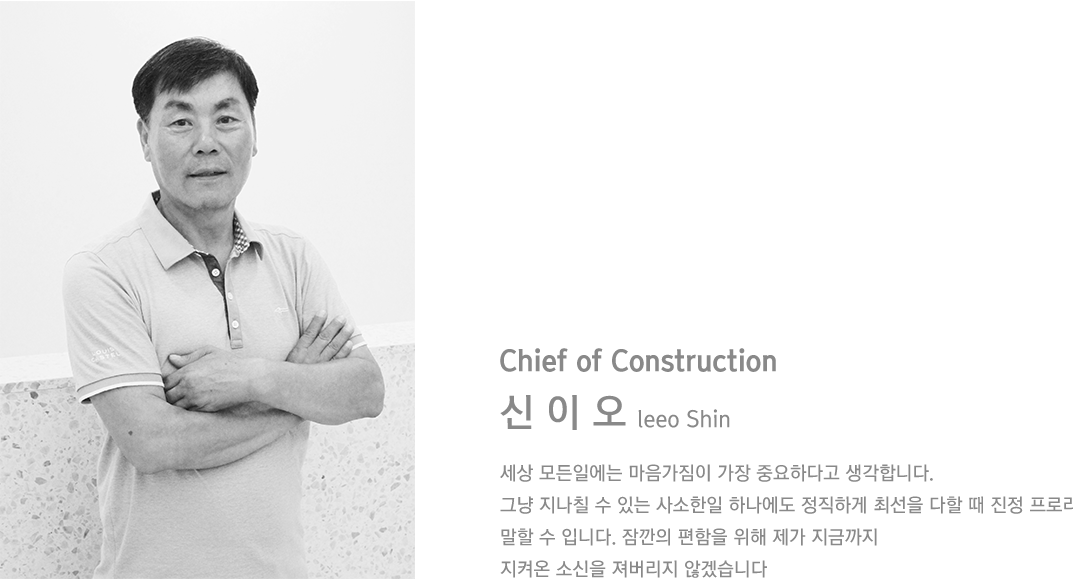
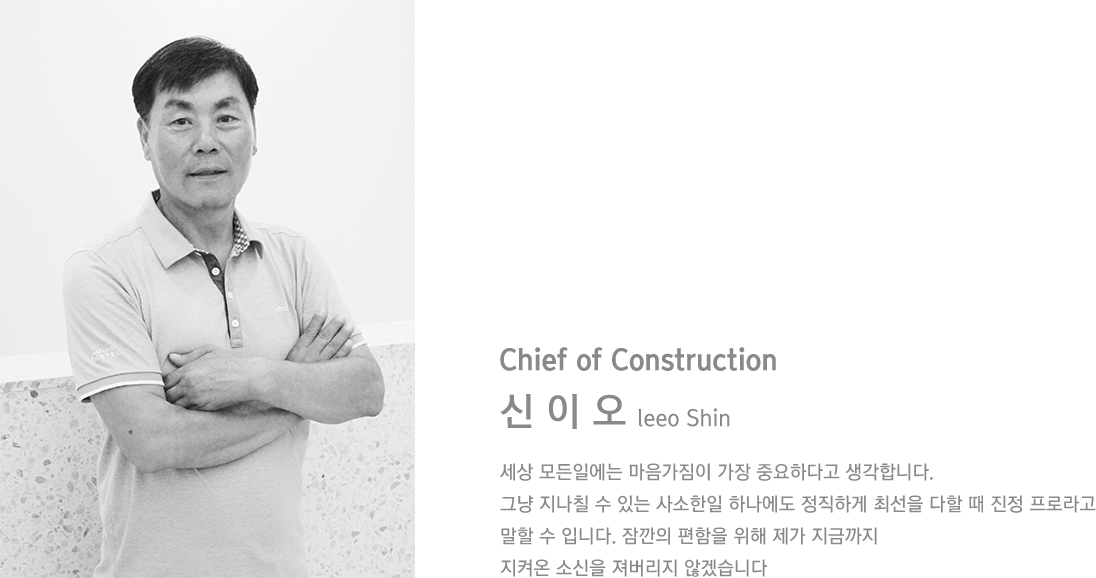
Fix some design

diff --git a/app/assets/stylesheets/bootstrap.min.css b/app/assets/stylesheets/bootstrap.min.css
@@ -4,7 +4,7 @@
  * Licensed under MIT (https://github.com/twbs/bootstrap/blob/master/LICENSE)
  *//*! normalize.css v3.0.2 | MIT License | git.io/normalize */
  
- @import url(http://fonts.googleapis.com/earlyaccess/nanumgothic.css);
+@import url(http://fonts.googleapis.com/earlyaccess/nanumgothic.css);
  
  html {
     font-family: "Nanum Gothic", sans-serif;
@@ -107,7 +107,7 @@ code,
 kbd,
 pre,
 samp {
-    font-family: monospace,monospace;
+    font-family: "Nanum Gothic", sans-serif;
     font-size: 1em;
 }
 button,
@@ -265,7 +265,7 @@ th {
     }
 }
 @font-face {
-    font-family: 'Glyphicons Halflings';
+    font-family: "Nanum Gothic", sans-serif;
     src: url("../fonts/glyphicons-halflings-regular.eot");
     src: url("../fonts/glyphicons-halflings-regular.eot?#iefix") format('embedded-opentype'),url(../fonts/glyphicons-halflings-regular.woff2) format('woff2'),url(../fonts/glyphicons-halflings-regular.woff) format('woff'),url(../fonts/glyphicons-halflings-regular.ttf) format('truetype'),url(../fonts/glyphicons-halflings-regular.svg#glyphicons_halflingsregular) format('svg');
 }
@@ -273,7 +273,7 @@ th {
     position: relative;
     top: 1px;
     display: inline-block;
-    font-family: 'Glyphicons Halflings';
+    font-family: "Nanum Gothic", sans-serif;
     font-style: normal;
     font-weight: 400;
     line-height: 1;
@@ -1083,7 +1083,7 @@ html {
     -webkit-tap-highlight-color: rgba(0,0,0,0);
 }
 body {
-    font-family: "Helvetica Neue",Helvetica,Arial,sans-serif;
+    font-family: "Nanum Gothic", sans-serif;
     font-size: 14px;
     line-height: 1.42857143;
     color: #333;
@@ -1093,7 +1093,7 @@ button,
 input,
 select,
 textarea {
-    font-family: inherit;
+    font-family: "Nanum Gothic", sans-serif;
     font-size: inherit;
     line-height: inherit;
 }
@@ -1185,7 +1185,7 @@ h3,
 h4,
 h5,
 h6 {
-    font-family: inherit;
+    font-family: "Nanum Gothic", sans-serif;
     font-weight: 500;
     line-height: 1.1;
     color: inherit;
@@ -1523,7 +1523,7 @@ code,
 kbd,
 pre,
 samp {
-    font-family: Menlo,Monaco,Consolas,"Courier New",monospace;
+    font-family: "Nanum Gothic", sans-serif;
 }
 code {
     padding: 2px 4px;
@@ -5930,7 +5930,7 @@ button.close {
     position: absolute;
     z-index: 1070;
     display: block;
-    font-family: "Helvetica Neue",Helvetica,Arial,sans-serif;
+    font-family: "Nanum Gothic", sans-serif;
     font-size: 12px;
     font-weight: 400;
     line-height: 1.4;
@@ -6037,7 +6037,7 @@ button.close {
     display: none;
     max-width: 276px;
     padding: 1px;
-    font-family: "Helvetica Neue",Helvetica,Arial,sans-serif;
+    font-family: "Nanum Gothic", sans-serif;
     font-size: 14px;
     font-weight: 400;
     line-height: 1.42857143;
@@ -6293,7 +6293,7 @@ button.close {
     width: 20px;
     height: 20px;
     margin-top: -10px;
-    font-family: serif;
+    font-family: "Nanum Gothic", sans-serif;
     line-height: 1;
 }
 .carousel-control .icon-prev:before {

diff --git a/app/assets/stylesheets/style.css b/app/assets/stylesheets/style.css
@@ -32,9 +32,8 @@
 /* 1. IMPORT SECTION */
 
 	@import url("http://fonts.googleapis.com/css?family=Raleway:200,300,600,700&subset=latin,latin-ext");
-
-
-
+  @import url(http://fonts.googleapis.com/earlyaccess/nanumgothic.css);
+  
 
 /* 2. BASIC STYLES */
 
@@ -43,7 +42,7 @@
 	}
 
 	body {
-		font-family: "Raleway", Helvetica, Arial, sans-serif;
+		font-family: "Nanum Gothic", sans-serif;
 		font-size: 14px;
 		font-weight: 200;
 		line-height: 1.7857;
@@ -86,7 +85,7 @@
 	}
 
 	h1, h2, h3, h4, h5, h6{
-		font-family: 'Raleway', sans-serif;
+		font-family: "Nanum Gothic", sans-serif;
 		font-weight: 700;
 		text-transform: uppercase;
 	}
@@ -358,7 +357,7 @@
 		line-height:27px;
 		letter-spacing:2px;
 		font-weight:100;
-		font-family:Helvetica;
+		font-family: "Nanum Gothic", sans-serif;
 	}
 
 	.carousel-caption h2 {
@@ -968,7 +967,7 @@
 
 	.contactleekang
 	{
-		font-family: "Raleway", Helvetica, Arial, sans-serif;
+		font-family: "Nanum Gothic", sans-serif;
 		font-size: 32px;
 		font-weight: 200;
 		line-height: 1.7857;

diff --git a/app/assets/stylesheets/magnific-popup.css b/app/assets/stylesheets/magnific-popup.css
@@ -1,3 +1,5 @@
+@import url(http://fonts.googleapis.com/earlyaccess/nanumgothic.css);
+
 /* Magnific Popup CSS */
 .mfp-bg {
   top: 0;
@@ -134,7 +136,7 @@ button::-moz-focus-inner {
   color: #FFF;
   font-style: normal;
   font-size: 28px;
-  font-family: Arial, Baskerville, monospace; }
+  font-family: "Nanum Gothic", sans-serif; }
   .mfp-close:hover, .mfp-close:focus {
     opacity: 1;
     filter: alpha(opacity=100); }

diff --git a/config/environments/development.rb b/config/environments/development.rb
@@ -2,8 +2,8 @@ Rails.application.configure do
   
   config.action_mailer.delivery_method = :mailgun
 	config.action_mailer.mailgun_settings = {
-		api_key: 'key-a5ad454f207d7e87942f7d4a8ce22445',
-		domain: 'sandbox9e12ce458e1d4dd388075be108ece87b.mailgun.org'
+		api_key: 'key-dc2e31b439f881c763b7b6ec0a10ca1e',
+		domain: 'sandboxa9d0338c41ac45e7aef46f087f4d08f4.mailgun.org'
 	}
 	
 	# For devise

diff --git a/app/mailers/usermailer.rb b/app/mailers/usermailer.rb
@@ -1,7 +1,7 @@
 class Usermailer < ApplicationMailer
 	def welcome_email email, title, content
 		mail from: email,
-		to: 'hjh123920513@naver.com',
+		to: 'leekangarchitecture@gmail.com',
 		subject: title,
 		body: content
 	end
